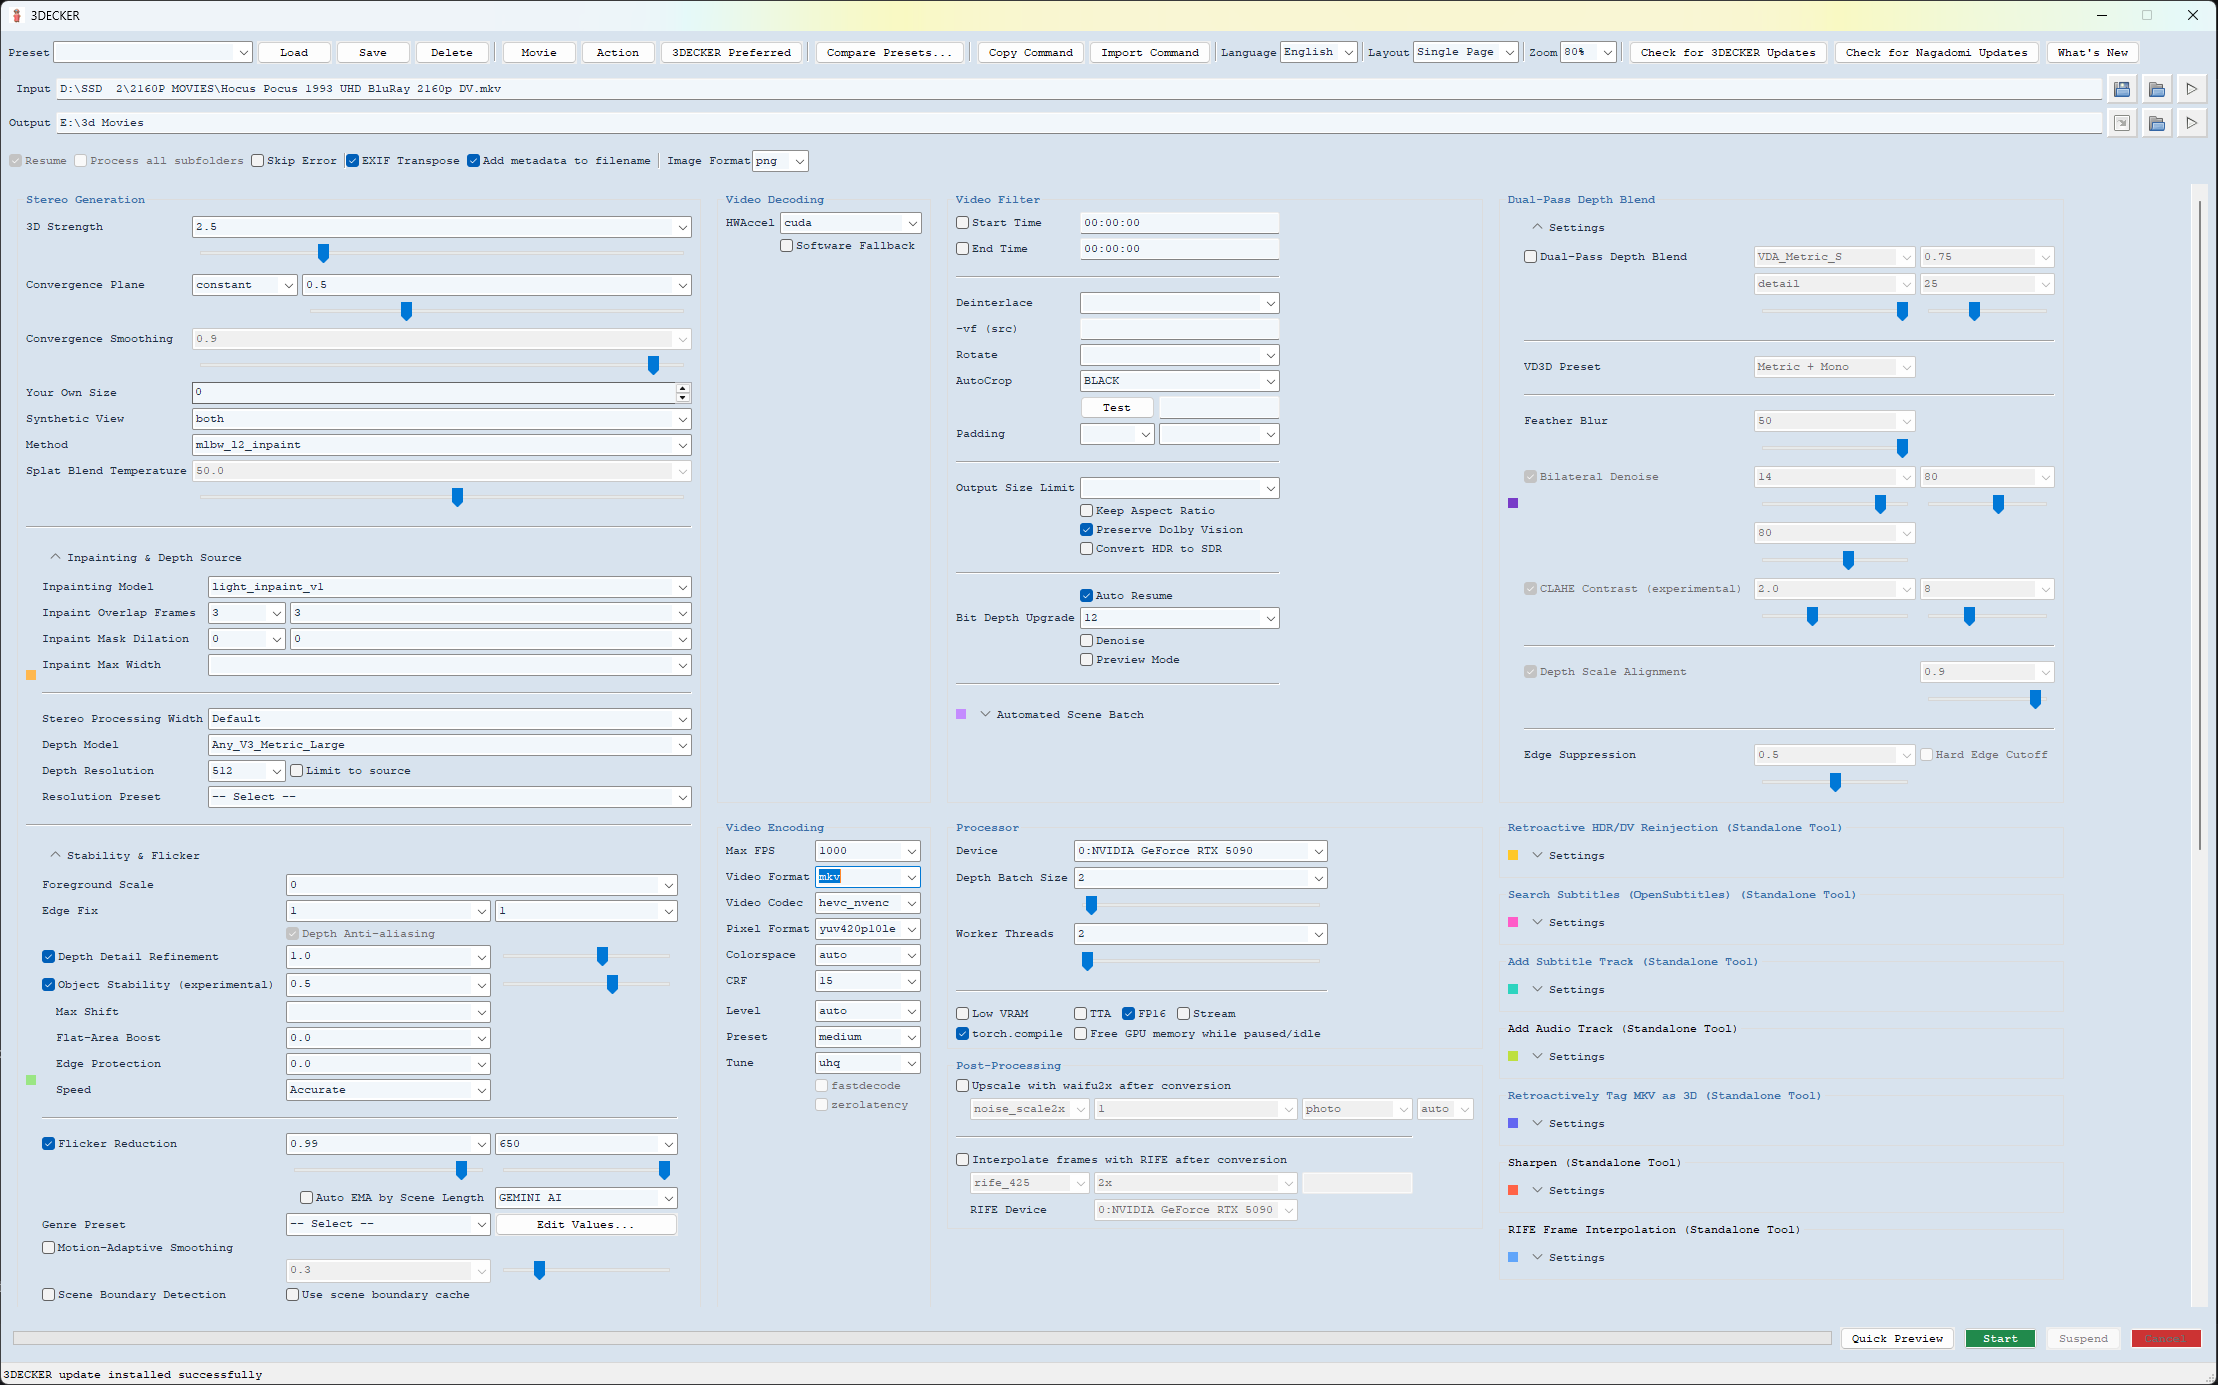
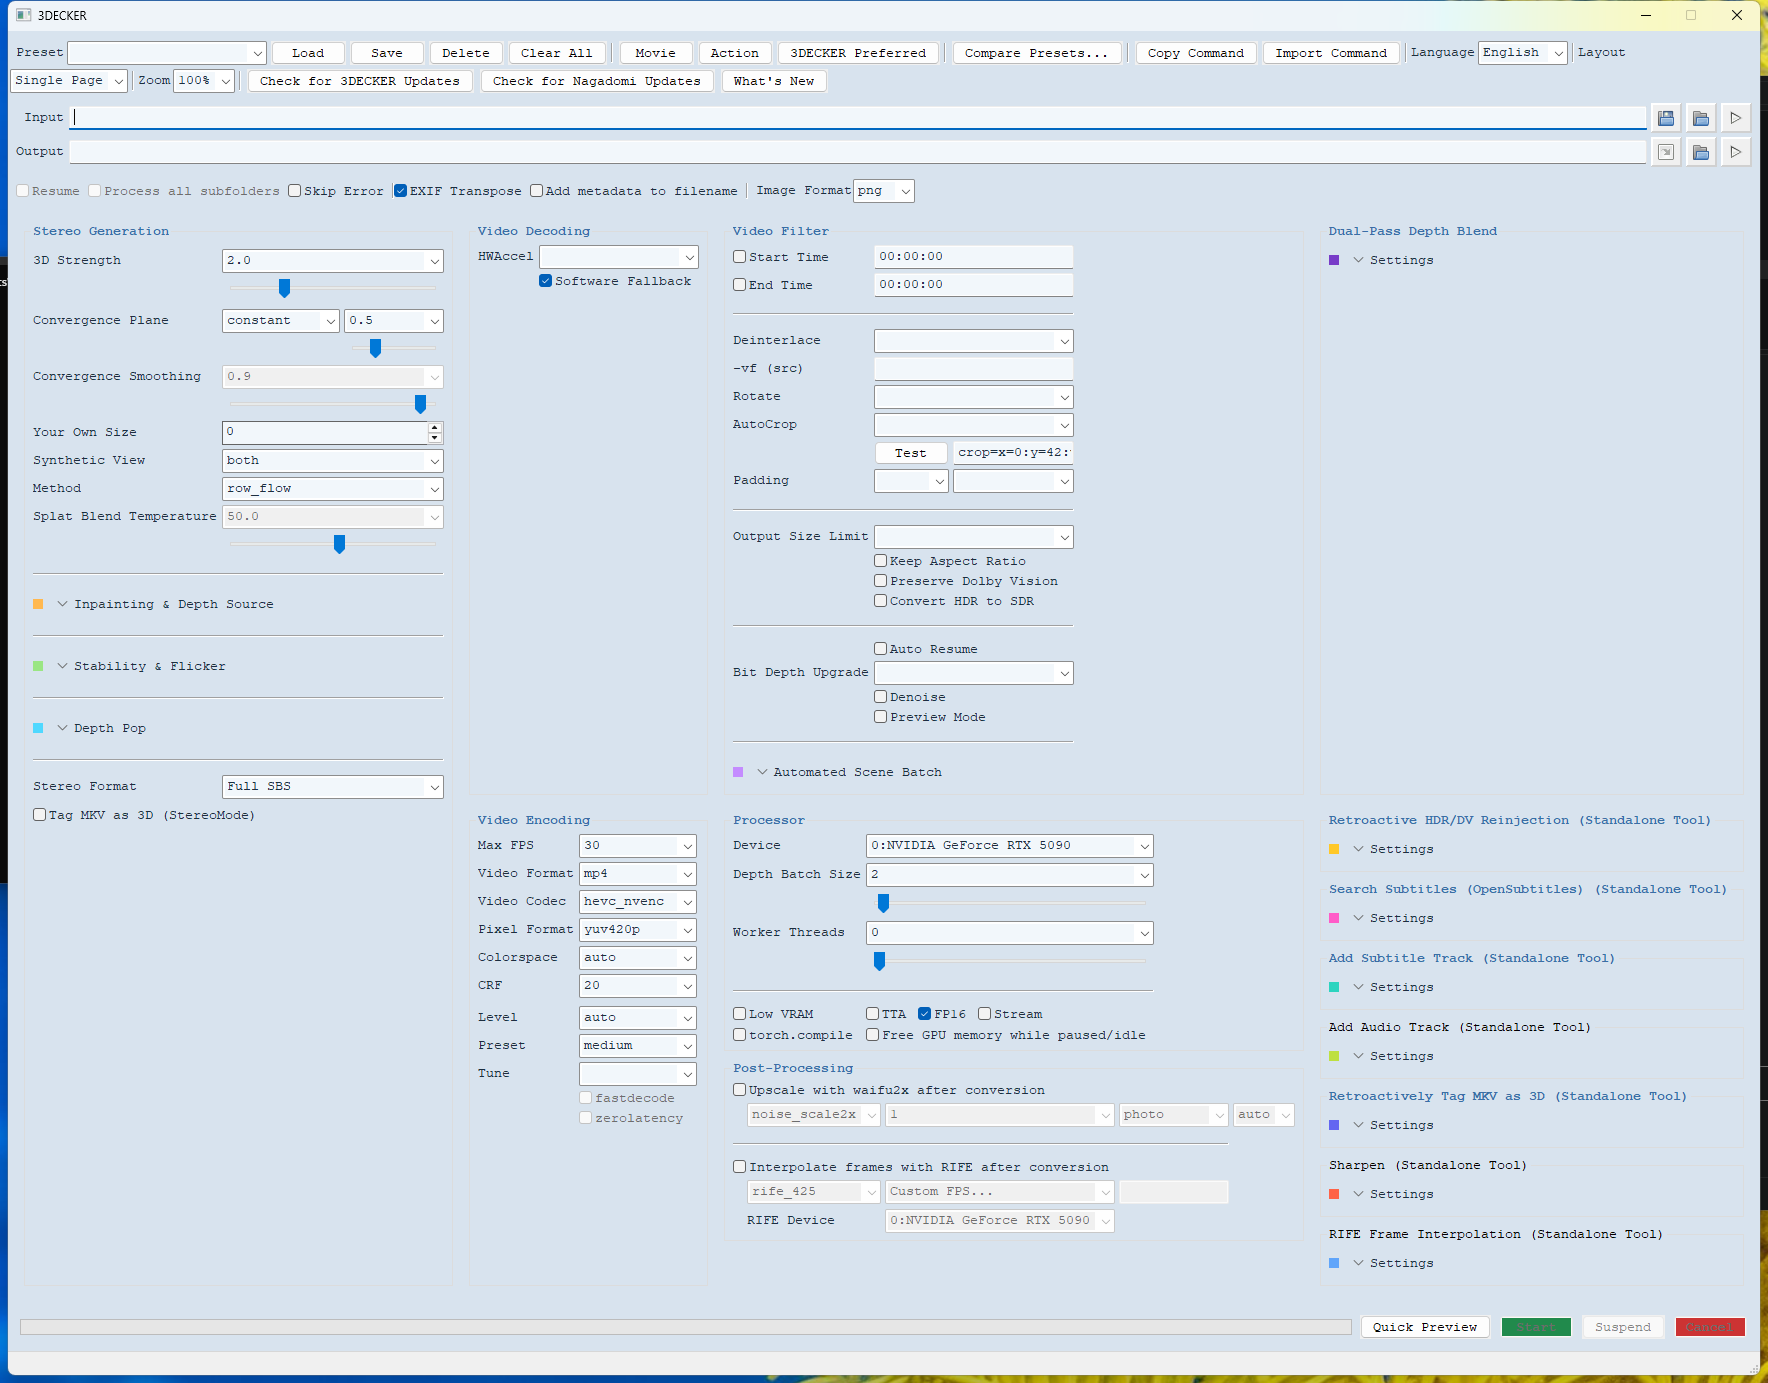
Add Clear All toolbar button (ADR-157); replace README screenshots with blank state
- New btn_clear_all in the preset toolbar: resets every setting to
  create_parser()'s real defaults and empties Input/Output, after a Yes/No
  confirmation. Reuses the existing Import Command Namespace-to-widgets path
  (apply_parsed_args_to_gui) rather than a new hand-maintained default list.
- New self-test _self_test_clear_all_button (51/51 relevant tests pass, same
  9 pre-existing unrelated ADR-057-family failures).
- Live-verified via a real MainFrame() screenshot script: no toolbar
  clipping, correct reset to defaults both programmatically and visually.
- README screenshots replaced with a blank-state capture (user request) --
  the whole window fit in one shot at the size used, so the second scrolled
  screenshot is no longer needed and was removed.

Claude-Session: https://claude.ai/code/session_01E6qVQtzXaQi5oCTNmE6PCS

diff --git a/iw3/gui.py b/iw3/gui.py
@@ -4912,6 +4912,12 @@ class MainFrame(wx.Frame):
         self.btn_delete_preset.SetToolTip(
             T("Permanently deletes the saved preset named in the Preset box. Does not affect the "
               "settings currently shown in this window, only the saved copy."))
+        self.btn_clear_all = wx.Button(self.pnl_preset, label=T("Clear All"))
+        self.btn_clear_all.SetToolTip(
+            T("Resets every setting in this window back to the app's own factory defaults, and empties "
+              "the Input/Output boxes too. Does not touch any saved preset. Handy before taking a "
+              "screenshot to share, or just to start over from a clean slate.\n"
+              "Asks for confirmation first -- anything unsaved in this window is discarded."))
 
         # quick presets
         self.sep_quick_preset = wx.StaticLine(self.pnl_preset, size=self.FromDIP((2, 20)), style=wx.LI_VERTICAL)
@@ -5232,6 +5238,7 @@ class MainFrame(wx.Frame):
         self.btn_load_preset.Bind(wx.EVT_BUTTON, self.on_click_btn_load_preset)
         self.btn_save_preset.Bind(wx.EVT_BUTTON, self.on_click_btn_save_preset)
         self.btn_delete_preset.Bind(wx.EVT_BUTTON, self.on_click_btn_delete_preset)
+        self.btn_clear_all.Bind(wx.EVT_BUTTON, self.on_click_btn_clear_all)
         self.btn_quick_preset_movie.Bind(wx.EVT_BUTTON, lambda event: self.apply_quick_preset("movie"))
         self.btn_quick_preset_action.Bind(wx.EVT_BUTTON, lambda event: self.apply_quick_preset("action"))
         self.btn_quick_preset_3decker.Bind(wx.EVT_BUTTON, lambda event: self.apply_quick_preset("3decker"))
@@ -5622,6 +5629,7 @@ class MainFrame(wx.Frame):
             ("widget", self.btn_load_preset, wx.ALL, 2),
             ("widget", self.btn_save_preset, wx.ALL, 2),
             ("widget", self.btn_delete_preset, wx.ALL, 2),
+            ("widget", self.btn_clear_all, wx.ALL, 2),
             ("spacer", 2),
             ("widget", self.sep_quick_preset, wx.ALIGN_CENTER_VERTICAL | wx.ALIGN_LEFT, 0),
             ("spacer", 4),
@@ -7881,6 +7889,27 @@ class MainFrame(wx.Frame):
     def on_click_btn_delete_preset(self, event):
         self.delete_preset(self.cbo_app_preset.GetValue())
         event.Skip()
+
+    def on_click_btn_clear_all(self, event):
+        """Resets every GUI setting to the app's own factory defaults (and
+        empties Input/Output), asking for confirmation first since this
+        discards anything unsaved. Reuses the exact same create_parser(
+        required_true=False).parse_args([]) -> apply_parsed_args_to_gui()
+        round trip Import Command already uses (ADR-121/074) -- a real,
+        already-proven argparse.Namespace -> widgets path, rather than a new
+        hand-maintained list of default values that could drift out of sync
+        with create_parser()'s own defaults as flags are added later."""
+        with wx.MessageDialog(
+                None,
+                message=T("Reset every setting to defaults and clear Input/Output?"),
+                caption=T("Confirm"), style=wx.YES_NO) as dlg:
+            if dlg.ShowModal() != wx.ID_YES:
+                return
+        args = create_parser(required_true=False).parse_args([])
+        self.apply_parsed_args_to_gui(args)
+        self.SetStatusText(T("All settings reset to defaults"))
+        if event is not None:
+            event.Skip()
 
     def on_text_changed_cbo_language(self, event):
         lang = self.cbo_language.GetClientData(self.cbo_language.GetSelection())
@@ -14038,6 +14067,68 @@ def _self_test_moge3_model_selection():
     print("_self_test_moge3_model_selection: PASS")
 
 
+def _self_test_clear_all_button():
+    """Clear All (pnl_preset toolbar) must: (a) do nothing at all when the
+    confirmation is declined -- no widget touched; (b) reset every setting to
+    create_parser()'s own real defaults and empty Input/Output when accepted.
+    Mirrors the confirm-dialog-monkeypatch pattern _self_test_install_3decker
+    _update_button already established (fakes wx.MessageDialog so no real
+    modal blocks the test), rather than reinventing it."""
+    import iw3.gui as gui_mod
+
+    class _FakeConfirmDialog:
+        result = wx.ID_YES
+
+        def __init__(self, *a, **kw):
+            pass
+
+        def __enter__(self):
+            return self
+
+        def __exit__(self, *a):
+            return False
+
+        def ShowModal(self):
+            return _FakeConfirmDialog.result
+
+    app = None
+    frame = None
+    orig_message_dialog = gui_mod.wx.MessageDialog
+    try:
+        app = wx.App()
+        frame = MainFrame()
+        gui_mod.wx.MessageDialog = _FakeConfirmDialog
+
+        # Drive some fields away from their defaults first.
+        frame.pnl_file.set_input_path("C:/some/private/movie.mkv")
+        frame.pnl_file.set_output_path("C:/some/private/output")
+        _apply_combo_value(frame.cbo_divergence, "4.5")
+
+        # Declining must leave every one of those untouched.
+        _FakeConfirmDialog.result = wx.ID_NO
+        frame.on_click_btn_clear_all(None)
+        assert frame.pnl_file.input_path == "C:/some/private/movie.mkv"
+        assert frame.cbo_divergence.GetValue() == "4.5"
+
+        # Accepting resets to create_parser()'s own real defaults.
+        _FakeConfirmDialog.result = wx.ID_YES
+        frame.on_click_btn_clear_all(None)
+        assert frame.pnl_file.input_path == "", frame.pnl_file.input_path
+        assert frame.pnl_file.output_path == ""
+        default_args = create_parser(required_true=False).parse_args([])
+        assert frame.cbo_divergence.GetValue() == str(default_args.divergence), \
+            frame.cbo_divergence.GetValue()
+    finally:
+        gui_mod.wx.MessageDialog = orig_message_dialog
+        if frame is not None:
+            frame.Destroy()
+            wx.SafeYield()
+        if app is not None:
+            app.Destroy()
+
+    print("_self_test_clear_all_button: PASS")
+
+
 def _run_self_tests():
     """Runs every registered self-test and reports a complete pass/fail summary.
 
@@ -14103,6 +14194,7 @@ def _run_self_tests():
         _self_test_free_vram_on_job_finish,
         _self_test_metric3d_model_selection,
         _self_test_moge3_model_selection,
+        _self_test_clear_all_button,
     ]
     failures = []
     for test in tests:

diff --git a/3DECKER_CHANGELOG.md b/3DECKER_CHANGELOG.md
@@ -34,6 +34,11 @@ LBM Depth's output came out flat/low-detail in real testing, and FlashDepth has 
 hard technical blocker (it needs an older, incompatible version of a core library
 this app can't safely install) — so neither was worth shipping.
 
+**A new "Clear All" button** sits next to Load/Save/Delete in the toolbar. It resets
+every setting back to the app's own defaults and empties the Input/Output boxes,
+after asking you to confirm — handy before taking a screenshot to share, or just to
+start fresh without closing the app.
+
 ---
 
 ## Update — September 14, 2026

diff --git a/README.md b/README.md
@@ -13,7 +13,6 @@ layered on top on the `my-customizations` branch.
 - **What's changed recently?** See [`3DECKER_CHANGELOG.md`](3DECKER_CHANGELOG.md).
 
 ![3DECKER main window](docs/screenshots/panels.png)
-![3DECKER main window, scrolled down](docs/screenshots/panels-expanded-2.png)
 
 Everything below this point is the original upstream project's own README,
 covering the underlying source code, dependencies, and license notes — still
